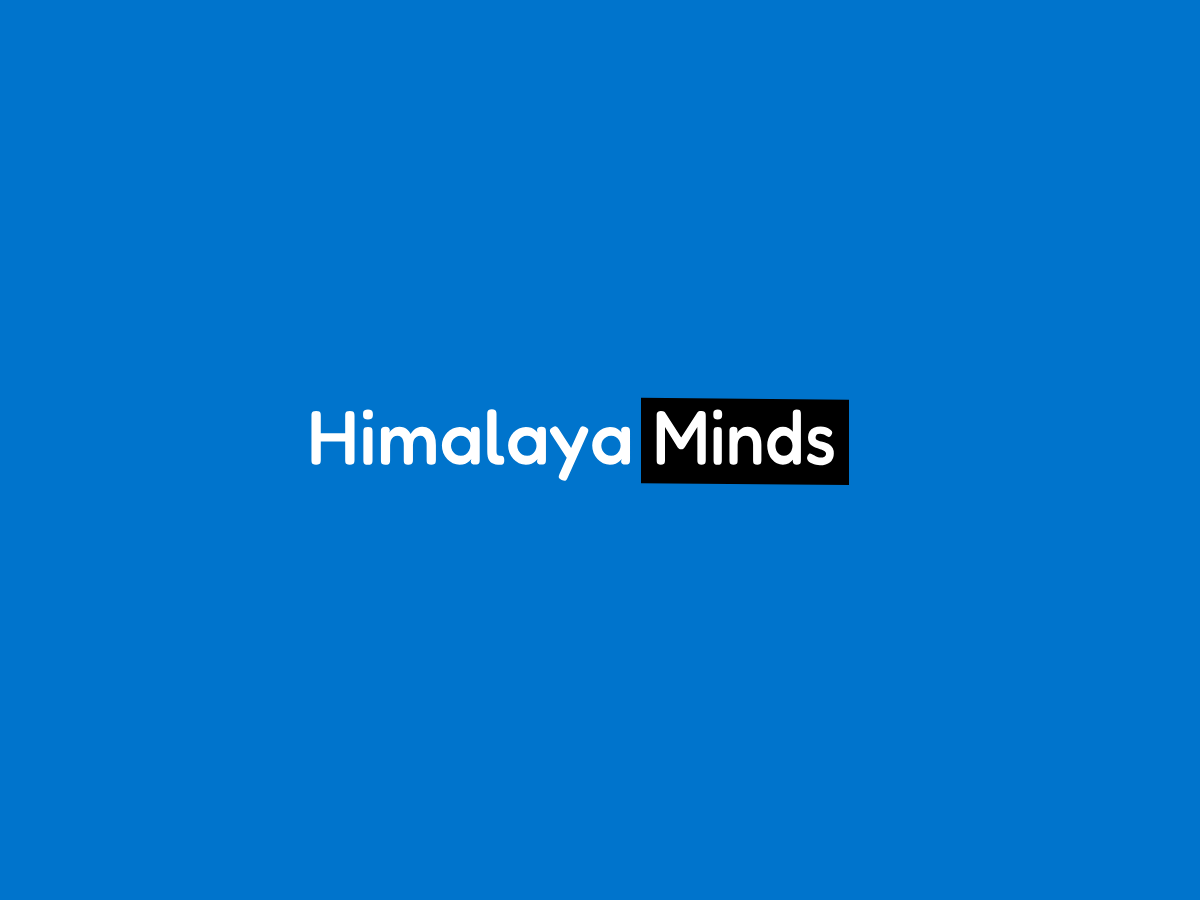
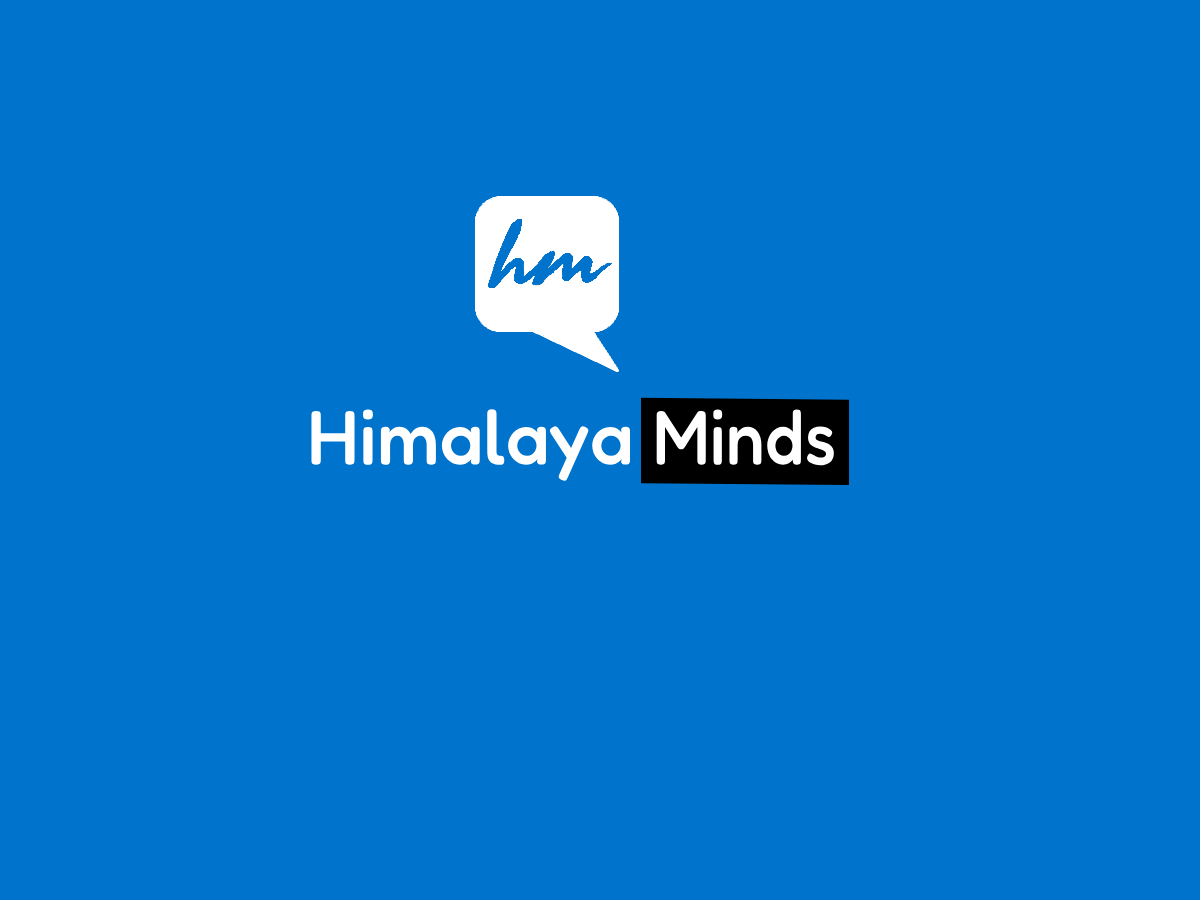
hero section...

Changed region(s): [[0.37, 0.2178, 0.5242, 0.4044]]

diff --git a/wp-content/themes/himalayaminds/header.php b/wp-content/themes/himalayaminds/header.php
@@ -14,6 +14,9 @@
     <meta charset="<?php bloginfo($charset) ?>">
     <meta name="viewport" content="width=device-width, initial-scale=1.0">
     <title> HimalayaMinds - Ascend to Excellence with HimalayaMinds. </title>
+    <link rel="stylesheet" href="https://cdnjs.cloudflare.com/ajax/libs/font-awesome/6.5.1/css/all.min.css"
+        integrity="sha512-DTOQO9RWCH3ppGqcWaEA1BIZOC6xxalwEsw9c2QQeAIftl+Vegovlnee1c9QX4TctnWMn13TZye+giMm8e2LwA=="
+        crossorigin="anonymous" referrerpolicy="no-referrer" />
     <?php wp_head(); ?>
 </head>
 
@@ -36,6 +39,51 @@
                 </ul>
             </nav>
         </div>
+
+        <section id="hero">
+            <div class="container intro">
+                <h1> Ascend to Excellence with HimalayaMinds. </h1>
+                <p>Join us and be a part of Himalaya Minds</p>
+            </div>
+            <div class="container">
+                <div class="himalayaminds-features">
+                    <ul class="hm-feature">
+                        <li class="feature-card">
+                            <div class="feature-icon">
+                                <i class="fas fa-users"></i>
+                            </div>
+                            <div class="feature-title">
+                                <span>Community</span>
+                            </div>
+                        </li>
+                        <li class="feature-card">
+                            <div class="feature-icon">
+                                <i class="fas fa-blog"></i>
+                            </div>
+                            <div class="feature-title">
+                                <span>Blog</span>
+                            </div>
+                        </li>
+                        <li class="feature-card">
+                            <div class="feature-icon">
+                                <i class="fas fa-server"></i>
+                            </div>
+                            <div class="feature-title">
+                                <span>Web Hosting</span>
+                            </div>
+                        </li>
+                        <li class="feature-card">
+                            <div class="feature-icon">
+                                <i class="fab fa-osi" style="font-weight: bold;"></i>
+                            </div>
+                            <div class="feature-title">
+                                <span>Open Source</span>
+                            </div>
+                        </li>
+                    </ul>
+                </div>
+            </div>
+        </section>
 
 
 
